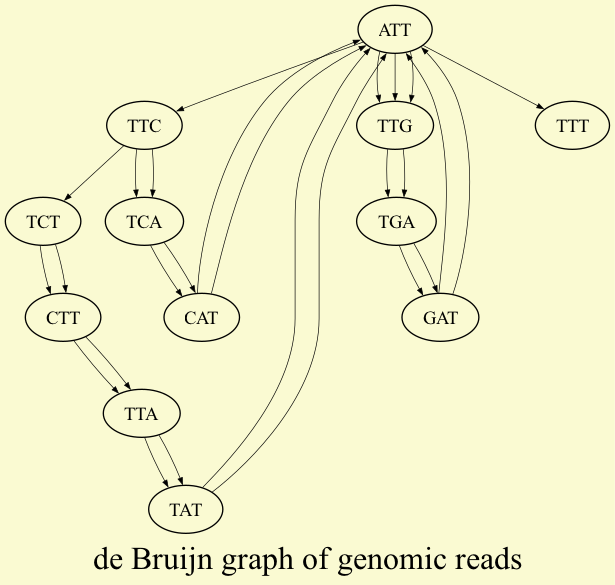
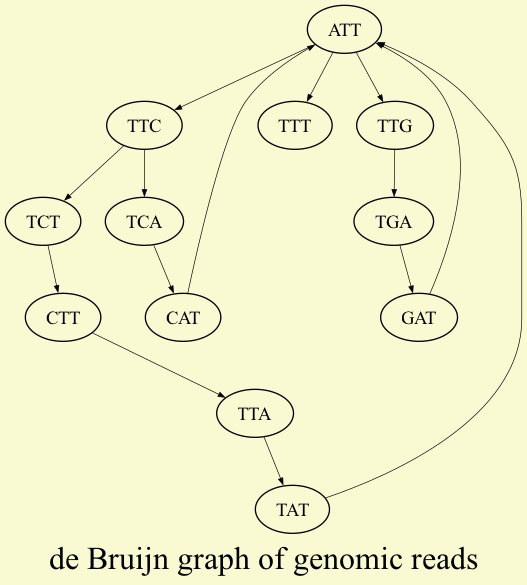
Updates to exercise 2 to eliminate the duplicate edges

diff --git a/week1/week1_exercise2.py b/week1/week1_exercise2.py
@@ -10,17 +10,18 @@ reads = ['ATTCA', 'ATTGA', 'CATTG', 'CTTAT', 'GATTG', 'TATTT', 'TCATT', 'TCTTA',
 # set variable k = 3 (each k-mer has a length of 3 nucleotides)
 k = 3
 
-# create an empty list 
-graph = []
+# create an empty DICTIONARY 
+graph = {}
 
 # generate the edges for the de Bruijn graph and add them to the empty graph list
 # step through each of the 5-mer genome reads in the reads list
 for read in reads:
-    for i in range(len(read) - k):                          # within each read, iterate at indices 0 and 1 -> range(len(read) - k) = range(len(read) - 3) = range(5-3) = range(2) = [0, 1]
-        kmer1 = read[i : i + k]                             # assign kmer1 to the three nucleotides from index i to index i + k (because python is upper limit exclusionary, adding k = 3 to i will generate a kmer1 that is 3 nt long)
-        kmer2 = read[i + 1 : i + 1 + k]                     # assign kmer2 to the three nucletoides shifted over 1 index from those in kmer1
+    for i in range(len(read) - k):                              # within each read, iterate at indices 0 and 1 -> range(len(read) - k) = range(len(read) - 3) = range(5-3) = range(2) = [0, 1]
+        kmer1 = read[i : i + k]                                 # assign kmer1 to the three nucleotides from index i to index i + k (because python is upper limit exclusionary, adding k = 3 to i will generate a kmer1 that is 3 nt long)
+        kmer2 = read[i + 1 : i + 1 + k]                         # assign kmer2 to the three nucletoides shifted over 1 index from those in kmer1
         # print(kmer1 + " -> " + kmer2)            # test the variable assignments above
-        graph.append(kmer1 + " -> " + kmer2)                # append the edge generated with kmer1 and kmer2 to the graph list
+        graph.setdefault(kmer1 + " -> " + kmer2, 0)             # initialize the graph dictionary with each new edge as the key and "0" as the value
+        graph[kmer1 + " -> " + kmer2] += 1                      # add 1 to the value associated with the edge/key
         
 # print(graph)              # test the above code
 
@@ -34,7 +35,7 @@ print(header)
 for edge in graph:
     print(edge)                                             # print the edge
 
-
+# generate a footer for the resulting file
 footer = "}"
 print(footer)
 
